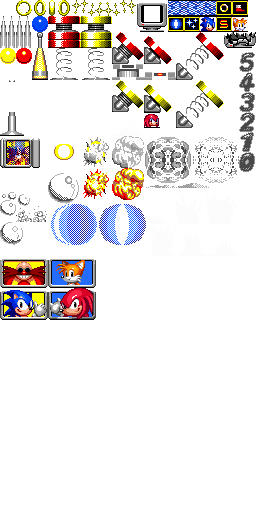
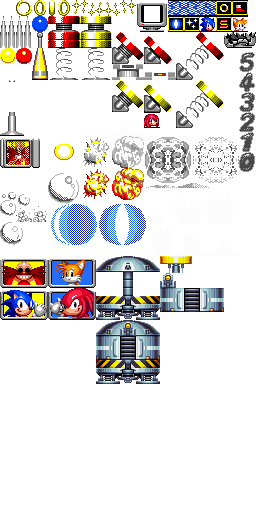
Add initial test with end capsule and solid object algorithm

Changed region(s): [[0.375, 0.5, 0.875, 0.75]]

diff --git a/assets/levels/COMMON/objects_common.tsx b/assets/levels/COMMON/objects_common.tsx
@@ -1,5 +1,5 @@
 <?xml version="1.0" encoding="UTF-8"?>
-<tileset version="1.10" tiledversion="1.11.0" name="objects_common" tilewidth="64" tileheight="64" tilecount="20" columns="4">
+<tileset version="1.10" tiledversion="1.11.2" name="objects_common" tilewidth="64" tileheight="64" tilecount="20" columns="4">
  <image source="obj_common_designtiles.png" width="256" height="320"/>
  <tile id="0" type="ring"/>
  <tile id="1" type="monitor">
@@ -58,4 +58,6 @@
   </properties>
  </tile>
  <tile id="17" type="bubble"/>
+ <tile id="18" type="end_capsule"/>
+ <tile id="19" type="end_capsule_button"/>
 </tileset>

diff --git a/src/object_state_commons.c b/src/object_state_commons.c
@@ -1,3 +1,4 @@
+#include <stdlib.h>
 #include "object.h"
 #include "object_state.h"
 #include "camera.h"
@@ -14,7 +15,8 @@ extern uint8_t player_attacking;
 extern int32_t player_width;
 extern int32_t player_height;
 
-extern uint32_t   level_score_count;
+extern uint32_t level_score_count;
+extern int      debug_mode;
 
 extern SoundEffect sfx_pop;
 
@@ -122,5 +124,133 @@ hazard_player_interaction(RECT *hitbox, VECTOR *pos)
         if(player.action != ACTION_HURT && player.iframes == 0) {
             player_do_damage(&player, pos->vx << 12);
         }
+    }
+}
+
+void
+solid_object_player_interaction(RECT *solidity)
+{
+    if(debug_mode > 1) draw_collision_hitbox(solidity->x, solidity->y, solidity->w, solidity->h);
+
+    VECTOR player_center = {
+        .vx = player_vx + (player_width >> 1),
+        .vy = player_vy + (player_height >> 1),
+    };
+
+    VECTOR object_center = {
+        .vx = solidity->x + (solidity->w >> 1),
+        .vy = solidity->y + (solidity->h >> 1),
+    };
+
+    int32_t combined_x_radius = (solidity->w >> 1) + PUSH_RADIUS + 1;
+    int32_t combined_y_radius = (solidity->h >> 1) + (player_height >> 1);
+    int32_t combined_x_diameter = (combined_x_radius << 1);
+    int32_t combined_y_diameter = (combined_y_radius << 1);
+
+    // 1. Check if standing on top of object.
+    if(player.over_object) {
+        int32_t x_left_distance = (player_center.vx - object_center.vx) + combined_x_radius;
+        if((x_left_distance < 0) || (x_left_distance > combined_x_diameter)) {
+            player.over_object = 0;
+            player.grnd = 0;
+        }
+        return;
+    }
+
+
+    // Horizontal overlap
+    int32_t left_difference = (player_center.vx - object_center.vx) + combined_x_radius;
+
+    // The player is too far to the left to be touching? or...
+    // the player is too far to the right to be touching?
+    if((left_difference < 0) || (left_difference > combined_x_diameter))
+       return;
+    // The player is overlapping on X axis, and it will continue.
+
+    // Vertical overlap
+    int32_t top_difference = (player_center.vy - object_center.vy) + 4 + combined_y_radius;
+    
+    // Is the player too far above to be touching? or...
+    // is the player too far down to be touching?
+    if((top_difference < 0) || (top_difference > combined_y_diameter))
+        return;
+        
+    // Find direction of collision.
+    // Directions will be known through the signs of x_distance and y_distance.
+
+    // Horizontal edge distance
+    int32_t x_distance;
+    if(player_center.vx > object_center.vx) {
+        // Player is on the right: flipped, will be a negative number
+        x_distance = left_difference - combined_x_diameter;
+    } else {
+        // Player is on the left
+        x_distance = left_difference;
+    }
+
+    // Vertical edge distance
+    int32_t y_distance;
+    if(player_center.vy > object_center.vy) {
+        // Player is on the bottom; flipped, will be a negative number, minus extra 4px
+        y_distance = top_difference - 4 - combined_y_diameter;
+    } else {
+        // Player is on top
+        y_distance = top_difference;
+    }
+
+    if((abs(x_distance) > abs(y_distance)) || (abs(y_distance) <= 4)) {
+        // Collide vertically.
+
+        // Pop downwards
+        if(y_distance < 0) {
+            // If not moving vertically and standing on the ground,
+            // get crushed
+            //if((player.vel.vy == 0) && (player.grnd)) {} // TODO
+            // Else...
+            if(player.vel.vy >= 0) return;
+            player.pos.vy -= (y_distance << 12);
+            player.vel.vy = 0;
+        } else if(y_distance > 0){
+            // Popped upwards: Land on object
+            // y_distance must not be larger or equal to 16
+            if(y_distance >= 16) return;
+            y_distance -= 4; // Subtract 4px added earlier
+
+            // Forget the combined_x_radius; use the actual width radius of
+            // the object, not combined with anything at all
+            combined_x_radius = solidity->w >> 1;
+            combined_x_diameter = solidity->w;
+
+            // Get a distance from the player's X position to the object's
+            // right edge
+            int32_t x_comparison = object_center.vx - player_center.vx + combined_x_radius;
+
+            // If the player is too far to the right; or...
+            // If the player is too far to the left...
+            if((x_comparison < 0) || (x_comparison >= combined_x_diameter))
+                return;
+
+            // If player is moving upwards, cancel too
+            if(player.vel.vy < 0) return;
+
+            // Land over object
+            player.pos.vy -= (y_distance + 1) << 12;
+            player.grnd = 1;
+            player.vel.vy = 0;
+            player.angle = 0;
+            player.over_object = 1;
+            player.vel.vz = player.vel.vx;
+        }
+    } else {
+        // Collide horizontally
+        // Do not affect speed if x_distance is zero.
+        if((x_distance != 0)
+           && (((x_distance > 0) && (player.vel.vx > 0))
+               || ((x_distance < 0) && (player.vel.vx < 0))))
+        {
+            player.vel.vx = player.vel.vz = 0;
+            if(player.grnd) player.push = 1;
+        }
+        player.pos.vx -= (x_distance << 12);
     }
 }

diff --git a/src/object_state_update.c b/src/object_state_update.c
@@ -63,6 +63,7 @@ static void _shield_update(ObjectState *state, ObjectTableEntry *, VECTOR *);
 static void _switch_update(ObjectState *state, ObjectTableEntry *, VECTOR *);
 static void _bubble_patch_update(ObjectState *state, ObjectTableEntry *, VECTOR *);
 static void _bubble_update(ObjectState *state, ObjectTableEntry *, VECTOR *);
+static void _end_capsule_update(ObjectState *state, ObjectTableEntry *, VECTOR *);
 
 // Level-specific update functions
 extern void object_update_R0(ObjectState *, ObjectTableEntry *, VECTOR *);
@@ -138,6 +139,7 @@ object_update(ObjectState *state, ObjectTableEntry *typedata, VECTOR *pos, uint8
     case OBJ_SWITCH:                 _switch_update(state, typedata, pos);             break;
     case OBJ_BUBBLE_PATCH:           _bubble_patch_update(state, typedata, pos);       break;
     case OBJ_BUBBLE:                 _bubble_update(state, typedata, pos);             break;
+    case OBJ_END_CAPSULE:            _end_capsule_update(state, typedata, pos);        break;
     }
     return;
 
@@ -925,4 +927,17 @@ _bubble_update(ObjectState *state, ObjectTableEntry *, VECTOR *pos)
             return;
         }
     }
+}
+
+static void
+_end_capsule_update(ObjectState *state, ObjectTableEntry *, VECTOR *pos)
+{
+    RECT solidity = {
+        .x = pos->vx - 32,
+        .y = pos->vy - 60,
+        .w = 64,
+        .h = 60,
+    };
+
+    solid_object_player_interaction(&solidity);
 }

diff --git a/src/collision.c b/src/collision.c
@@ -218,7 +218,7 @@ linecast(int32_t vx, int32_t vy, LinecastDirection direction,
 }
 
 void
-_draw_collision_hitbox(int32_t vx, int32_t vy, int32_t w, int32_t h)
+draw_collision_hitbox(int32_t vx, int32_t vy, int32_t w, int32_t h)
 {
     uint16_t
         rel_vx = vx - (camera.pos.vx >> 12) + CENTERX,
@@ -236,7 +236,7 @@ int
 aabb_intersects(int32_t a_vx, int32_t a_vy, int32_t aw, int32_t ah,
                 int32_t b_vx, int32_t b_vy, int32_t bw, int32_t bh)
 {
-    if(debug_mode > 1) _draw_collision_hitbox(b_vx, b_vy, bw, bh);
+    if(debug_mode > 1) draw_collision_hitbox(b_vx, b_vy, bw, bh);
 
     int32_t a_right  = a_vx + aw;
     int32_t a_bottom = a_vy + ah;
@@ -257,7 +257,7 @@ hitbox_collision(int32_t p_vx, int32_t p_vy, int32_t pw, int32_t ph,
     int32_t obj_x = o_vx + (ow >> 1);
     int32_t obj_y = o_vy + (oh >> 1);
 
-    if(debug_mode > 1) _draw_collision_hitbox(o_vx, o_vy, ow, oh);
+    if(debug_mode > 1) draw_collision_hitbox(o_vx, o_vy, ow, oh);
 
     // Check for overlap
     int32_t combined_x_radius = (ow >> 1) + (pw >> 1) + 1;

diff --git a/src/player.c b/src/player.c
@@ -151,6 +151,7 @@ load_player(Player *player,
     player->anim_dir = 1;
     player->idle_timer = ANIM_IDLE_TIMER_MAX;
     player->grnd = player->ceil = player->push = 0;
+    player->over_object = 0;
 
     player->ev_grnd1 = (CollisionEvent){ 0 };
     player->ev_grnd2 = (CollisionEvent){ 0 };
@@ -764,7 +765,7 @@ _player_update_collision_tb(Player *player)
            && !input_pressing(&player->input, PAD_CROSS)) {
             player_set_action(player, ACTION_JUMPING);
         }
-    } else {
+    } else if(!player->over_object) {
         if(!player->ev_ceil1.collided && !player->ev_ceil2.collided) {
             player->ceil = 0;
         }
@@ -1309,6 +1310,7 @@ player_update(Player *player)
             sound_play_vag(sfx_jump, 0);
             player_set_action(player, ACTION_JUMPING);
             player->holding_jump = 1;
+            player->over_object = 0;
         }
     }
 

diff --git a/tools/cookobj/datatypes.py b/tools/cookobj/datatypes.py
@@ -41,6 +41,8 @@ class ObjectId(Enum):
     SHIELD = 0x0C
     BUBBLE_PATCH = 0x0D
     BUBBLE = 0x0E
+    END_CAPSULE = 0x0F
+    END_CAPSULE_BUTTON = 0x10
 
     @staticmethod
     def get(name):
@@ -60,6 +62,8 @@ class ObjectId(Enum):
             "shield": ObjectId.SHIELD,
             "bubble_patch": ObjectId.BUBBLE_PATCH,
             "bubble": ObjectId.BUBBLE,
+            "end_capsule": ObjectId.END_CAPSULE,
+            "end_capsule_button": ObjectId.END_CAPSULE_BUTTON,
         }
         result = switch.get(name.lower())
         assert result is not None, f"Unknown common object {name}"

diff --git a/include/player.h b/include/player.h
@@ -91,14 +91,15 @@ typedef struct {
     uint8_t   ctrllock;
     uint8_t   airdirlock;
     uint16_t  framecount;     // Used for many purposes incl. flight and glide
-    uint8_t   holding_jump;
     uint16_t  iframes;
+    uint8_t   holding_jump;
     uint8_t   shield;
     int32_t   speedshoes_frames;
-    uint8_t   underwater;
     uint16_t  remaining_air_frames;
+    uint8_t   underwater;
     int8_t    glide_turn_dir;
     uint8_t   sliding;
+    uint8_t   over_object;
 
     // Collision modes
     CollMode  gsmode;

diff --git a/include/object_state.h b/include/object_state.h
@@ -156,5 +156,6 @@ ObjectBehaviour enemy_spawner_update(ObjectState *state, VECTOR *pos);
 ObjectBehaviour enemy_player_interaction(ObjectState *state, RECT *hitbox, VECTOR *pos);
 uint8_t         object_should_despawn(ObjectState *state);
 void            hazard_player_interaction(RECT *hitbox, VECTOR *pos);
+void            solid_object_player_interaction(RECT *solidity);
 
 #endif

diff --git a/include/collision.h b/include/collision.h
@@ -30,6 +30,8 @@ CollisionEvent linecast(int32_t vx, int32_t vy, LinecastDirection direction,
 
 /* Simpler collision detection algorithms */
 
+void draw_collision_hitbox(int32_t vx, int32_t vy, int32_t w, int32_t h);
+
 // Intersection between two axis-aligned bounding boxes (AABBs).
 int
 aabb_intersects(int32_t a_vx, int32_t a_vy, int32_t aw, int32_t ah,

diff --git a/include/object.h b/include/object.h
@@ -29,6 +29,8 @@ typedef enum {
     OBJ_SHIELD                 = 0x0c,
     OBJ_BUBBLE_PATCH           = 0x0d,
     OBJ_BUBBLE                 = 0x0e,
+    OBJ_END_CAPSULE            = 0x0f,
+    OBJ_END_CAPSULE_BUTTON     = 0x10,
 } ObjectType;
 
 #define MASK_FLIP_FLIPX  0x1 // Flip on X axis
